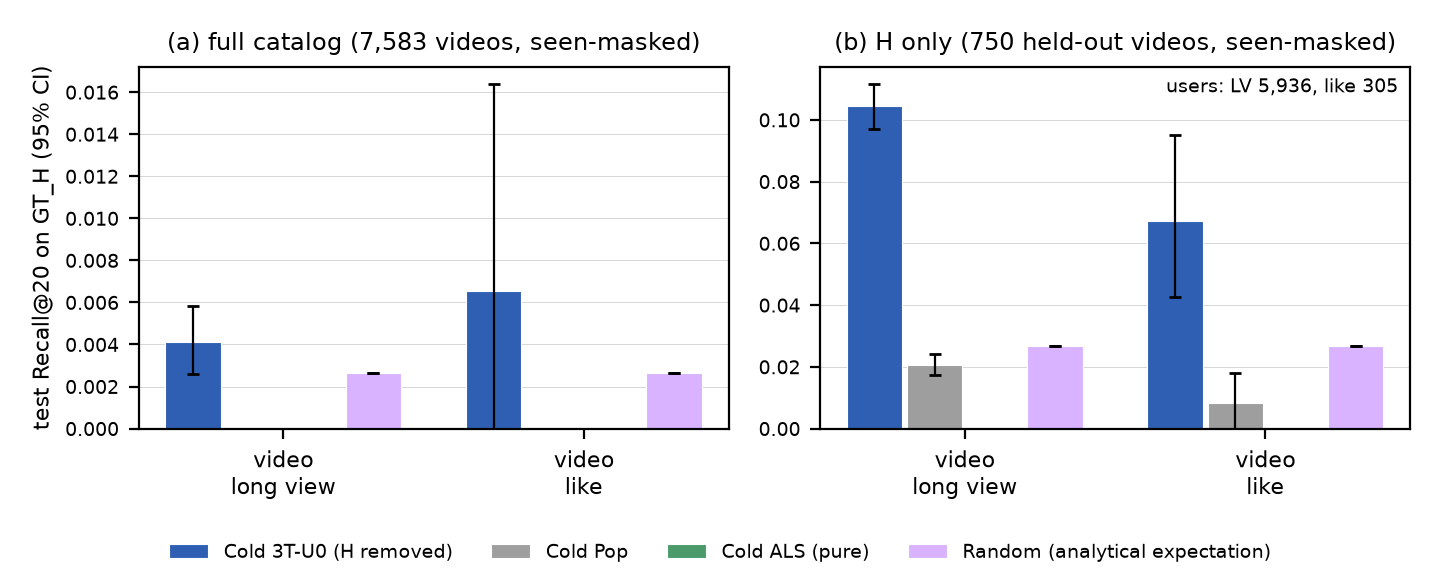
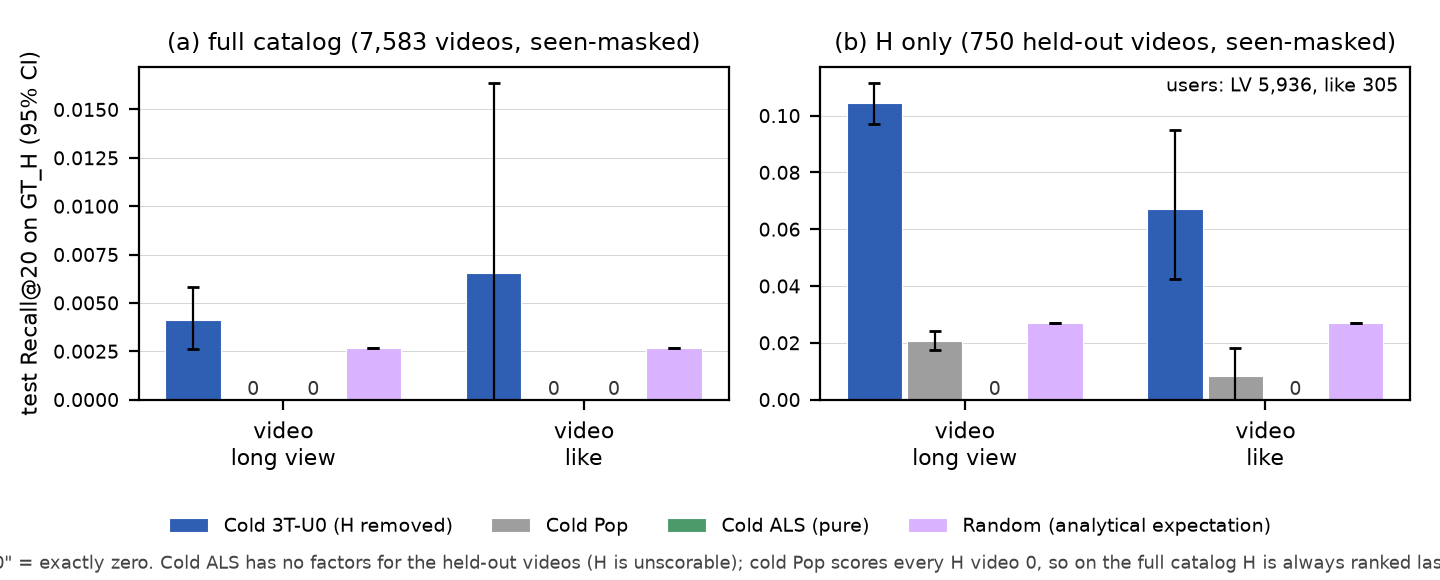
docs(figures): label n/a and zero-valued bars; stack ablation panels for readable axes

diff --git a/scripts/make_report_tables.py b/scripts/make_report_tables.py
@@ -18,6 +18,7 @@ os.environ.setdefault("MPLCONFIGDIR", "/tmp/mpl")
 import matplotlib
 matplotlib.use("Agg")
 import matplotlib.pyplot as plt
+import matplotlib.ticker  # noqa: F401  (MaxNLocator for the ablation axes)
 import pandas as pd
 
 ROOT = Path(__file__).resolve().parents[1]
@@ -205,6 +206,13 @@ def figures(mo, di, b, cb, meta):
     errs = [[get(t, m)[1] for m in models] for t in TASKS]
     fig, ax = plt.subplots(figsize=(7.2, 3.0))
     _bars(ax, groups, models, vals, errs, [COLOR[m] for m in models], labels)
+    # Mark bars that do not exist (ALS aux is defined for the like tasks only) instead of leaving a gap.
+    w = 0.8 / len(models)
+    for i in range(len(TASKS)):
+        for j in range(len(models)):
+            if vals[i][j] is None:
+                ax.text(i - 0.4 + w * (j + 0.5), 0.003, "n/a", ha="center", va="bottom", fontsize=7,
+                        color="#333", rotation=90)
     ax.set_ylabel("test Recall@20 (95% CI)", fontsize=8)
     ax.set_title("Full-catalog, seen-masked test Recall@20 (same users per task)", fontsize=9)
     ax.legend(fontsize=7, ncol=3, loc="upper center", bbox_to_anchor=(0.5, -0.2), frameon=False)
@@ -234,6 +242,12 @@ def figures(mo, di, b, cb, meta):
             v.append(row_v)
             e.append(row_e)
         _bars(ax, cgroups, cm_models, v, e, cm_colors, cm_labels)
+        # A bar of height exactly 0 is invisible: label it so it is not mistaken for a missing bar.
+        w = 0.8 / len(cm_models)
+        for i in range(len(cgroups)):
+            for j in range(len(cm_models)):
+                if v[i][j] == 0:
+                    ax.text(i - 0.4 + w * (j + 0.5), 0, "0", ha="center", va="bottom", fontsize=7, color="#333")
         ax.set_title(title, fontsize=8.5)
     axes[0].set_ylabel("test Recall@20 on GT_H (95% CI)", fontsize=8)
     n_lv = meta["frames"]["video_long_view/cold_video_full"]["n_users"]
@@ -241,8 +255,11 @@ def figures(mo, di, b, cb, meta):
     axes[1].text(0.98, 0.97, f"users: LV {n_lv:,}, like {n_like:,}", transform=axes[1].transAxes, ha="right",
                  va="top", fontsize=7)
     h, l = axes[0].get_legend_handles_labels()
-    fig.legend(h, l, fontsize=7, ncol=4, loc="lower center", frameon=False)
-    fig.tight_layout(rect=(0, 0.08, 1, 1))
+    fig.legend(h, l, fontsize=7, ncol=4, loc="lower center", bbox_to_anchor=(0.5, 0.045), frameon=False)
+    fig.text(0.5, 0.012, "\"0\" = exactly zero. Cold ALS has no factors for the held-out videos (H is unscorable); "
+             "cold Pop scores every H video 0, so on the full catalog H is always ranked last.",
+             ha="center", va="bottom", fontsize=6.5, color="#444")
+    fig.tight_layout(rect=(0, 0.13, 1, 1))
     fig.savefig(OUT_F / "fig2_cold_video.png", dpi=200)
     plt.close(fig)
 
@@ -274,7 +291,7 @@ def figures(mo, di, b, cb, meta):
     # Figure 4: ablations, paired differences vs U0 (R@20 and NDCG@20, 95% CI).
     d = di[(di.stratum == "all") & (di.frame_kind == "masked") & (di.model_b == "u0")
            & di.model_a.isin(["abl_nohist", "abl_nomusic"])]
-    fig, axes = plt.subplots(1, 2, figsize=(7.2, 2.5), sharey=True)
+    fig, axes = plt.subplots(2, 1, figsize=(7.2, 4.6))           # stacked: each panel gets the full width
     ys = np.arange(len(TASKS))[::-1]
     for ax, met in zip(axes, ("recall@20", "ndcg@20")):
         for k, (m, off) in enumerate((("abl_nohist", 0.15), ("abl_nomusic", -0.15))):
@@ -288,8 +305,9 @@ def figures(mo, di, b, cb, meta):
         ax.tick_params(axis="x", labelsize=7)
         ax.set_xlabel(f"Δ test {met.replace('recall', 'Recall').replace('ndcg', 'NDCG')} vs U0 (95% CI)",
                       fontsize=7.5)
+        ax.xaxis.set_major_locator(matplotlib.ticker.MaxNLocator(nbins=8))
         ax.grid(axis="x", lw=0.3, alpha=0.6)
-    axes[0].legend(fontsize=7, loc="lower left", frameon=False)
+    axes[0].legend(fontsize=7, loc="upper left", bbox_to_anchor=(1.0, 1.0), frameon=False)
     fig.tight_layout()
     fig.savefig(OUT_F / "fig4_ablations.png", dpi=200)
     plt.close(fig)

diff --git a/report/REPORT.md b/report/REPORT.md
@@ -351,7 +351,7 @@ The LV deficit is a heavy-user effect: U0 wins in the 1–5 bucket and loses in 
 
 Each ablation is a single configuration flag change from U0, with the same data, seed, selection rule and evaluation.
 
-![Figure 4: paired test differences vs U0 (95% CI) for the two ablations. Left: Recall@20; right: NDCG@20. Source: results/m5/main_formal/bootstrap_diffs.csv.](figures/fig4_ablations.png)
+![Figure 4: paired test differences vs U0 (95% CI) for the two ablations. Top: Recall@20; bottom: NDCG@20. Source: results/m5/main_formal/bootstrap_diffs.csv.](figures/fig4_ablations.png)
 
 **No history** (user ID only):
 - R@20 drops significantly on video LV (−.012\*), music LV (−.011\*) and music like (−.017\*).
